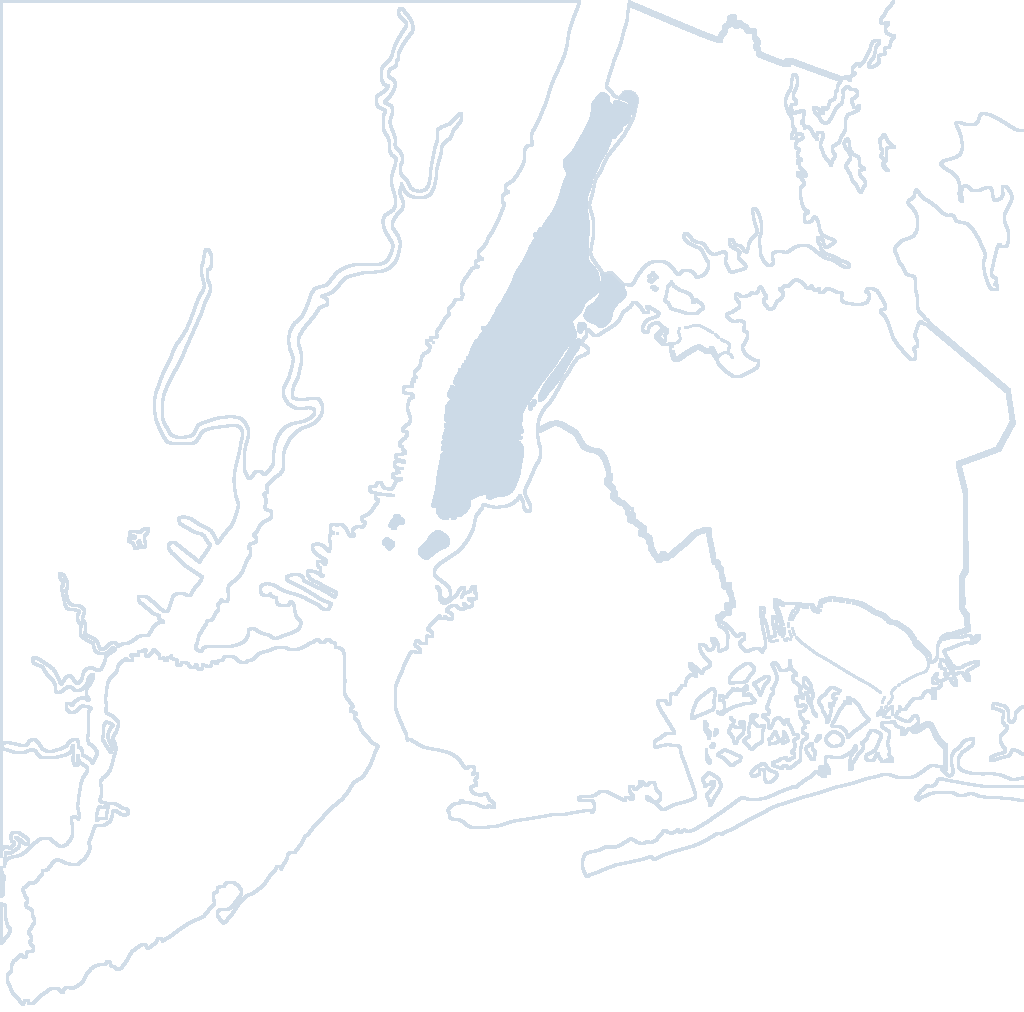
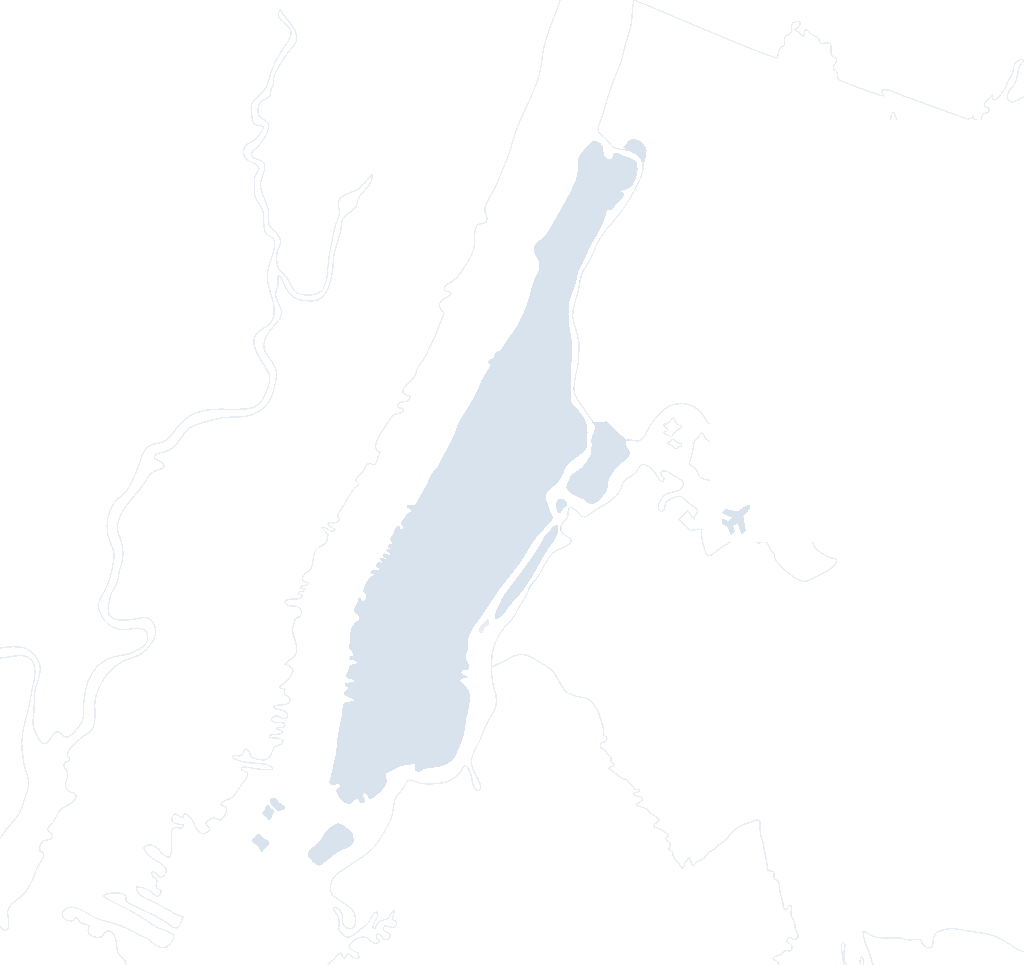
Tighten the hero map: thinner borough outlines and a closer Manhattan crop.

diff --git a/src/index.css b/src/index.css
@@ -249,19 +249,19 @@
 
 .hero-map {
   justify-self: end;
-  width: min(100%, 520px);
-  max-height: min(72vh, 560px);
+  width: min(100%, 560px);
+  max-height: min(78vh, 620px);
   pointer-events: none;
-  opacity: 0.92;
+  opacity: 0.94;
   mask-image: radial-gradient(
-    ellipse 72% 68% at 48% 46%,
-    #000 42%,
-    transparent 78%
+    ellipse 70% 66% at 50% 48%,
+    #000 48%,
+    transparent 80%
   );
   -webkit-mask-image: radial-gradient(
-    ellipse 72% 68% at 48% 46%,
-    #000 42%,
-    transparent 78%
+    ellipse 70% 66% at 50% 48%,
+    #000 48%,
+    transparent 80%
   );
 }
 
@@ -269,8 +269,10 @@
   display: block;
   width: 100%;
   height: auto;
-  max-height: min(72vh, 560px);
+  max-height: min(78vh, 620px);
   object-fit: contain;
+  transform: scale(1.18);
+  transform-origin: 48% 52%;
   filter: drop-shadow(0 18px 40px rgba(0, 20, 40, 0.35));
 }
 
@@ -289,14 +291,13 @@
 }
 
 .hero h1 {
-  max-width: none;
+  max-width: 18ch;
   margin: 0;
   color: white;
-  font-size: clamp(28px, 3.6vw, 46px);
+  font-size: clamp(26px, 3.2vw, 42px);
   line-height: 1.15;
   font-weight: 500;
   letter-spacing: -0.02em;
-  white-space: nowrap;
 }
 
 .hero-dek {
